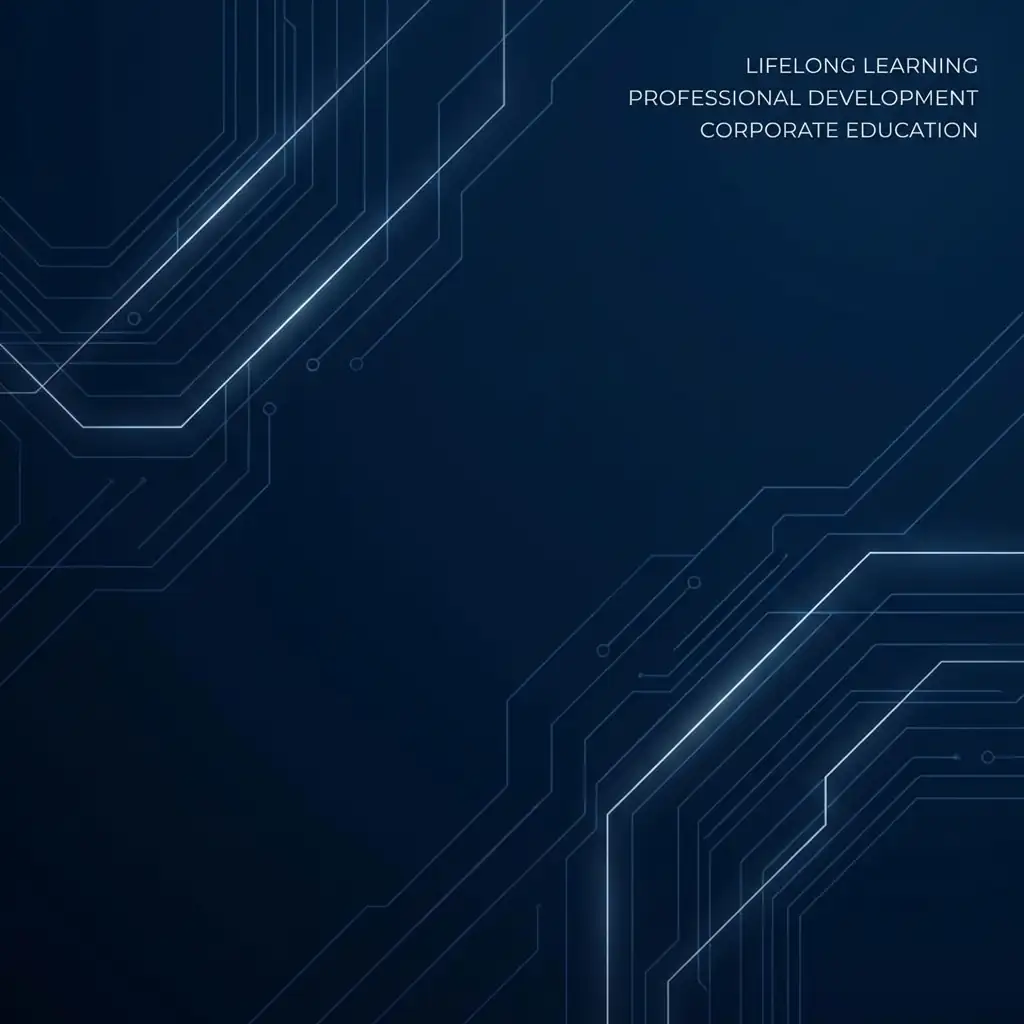
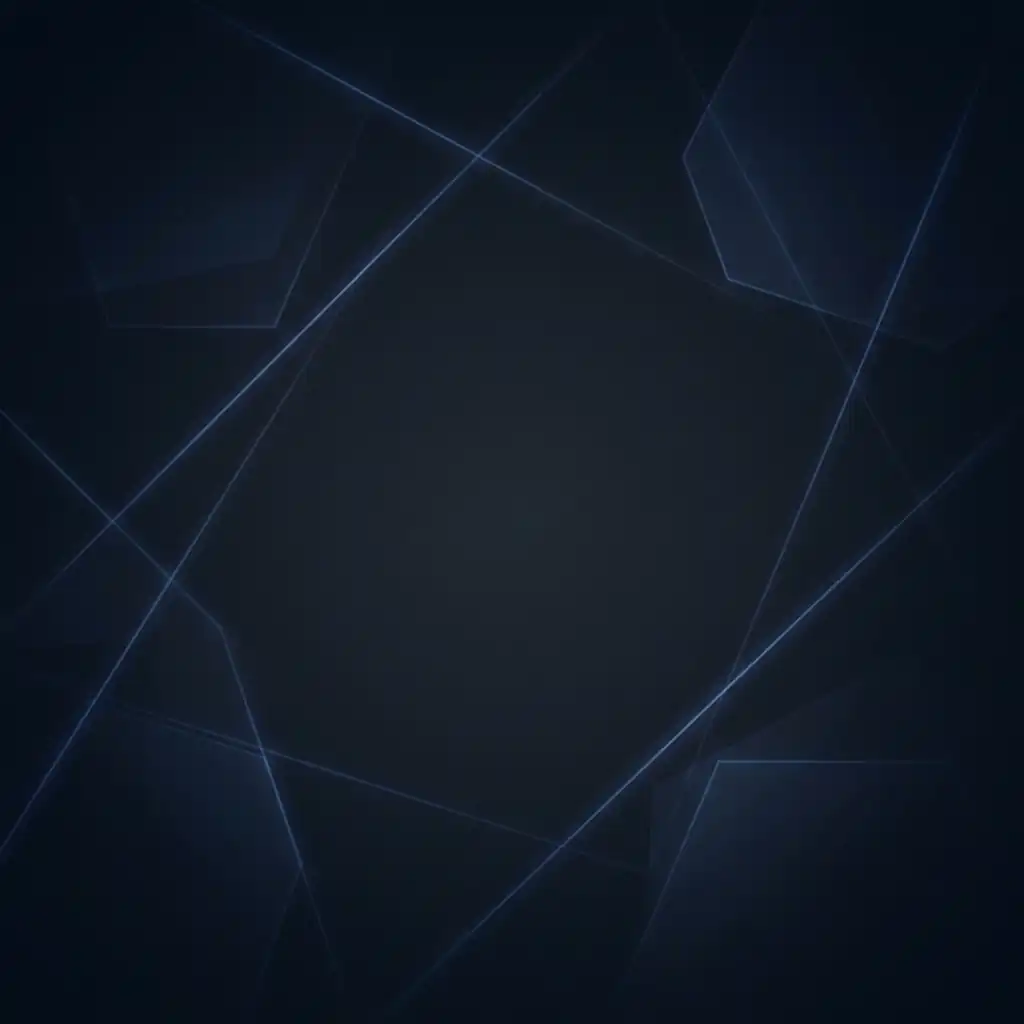
Slow animation to 300s and replace background with darker 7KB minimal version

diff --git a/index.html b/index.html
@@ -39,7 +39,7 @@
     <div class="fixed inset-0 z-0 pointer-events-none">
         <img src="assets/images/background.webp" alt="Global Consultancy Background"
             class="w-full h-full object-cover opacity-100">
-        <div class="absolute inset-0 bg-brand-dark/30 mix-blend-multiply"></div>
+        <div class="absolute inset-0 bg-brand-dark/50 mix-blend-multiply"></div>
     </div>
 
     <!-- Sticky Navigation -->

diff --git a/assets/css/styles.css b/assets/css/styles.css
@@ -109,7 +109,7 @@ a:focus-visible {
     display: flex;
     width: max-content;
     height: 100%;
-    animation: scroll-left 200s linear infinite;
+    animation: scroll-left 300s linear infinite;
     animation-play-state: paused;
 }
 

diff --git a/convert_bg_darker.py b/convert_bg_darker.py
@@ -1,0 +1,28 @@
+from PIL import Image
+import os
+
+source = r"c:\Users\user\.gemini\antigravity\scratch\edu\assets\images\background_darker_source.png"
+target = r"c:\Users\user\.gemini\antigravity\scratch\edu\assets\images\background.webp"
+
+print(f"Converting {source} to {target}...")
+
+try:
+    with Image.open(source) as img:
+        # Resize to 1280 max width (User requested "even smaller" and "instant load")
+        # 1280px is sufficient for a dark, abstract background
+        max_dimension = 1280
+        width, height = img.size
+        
+        if width > max_dimension:
+            new_height = int(height * (max_dimension / width))
+            img = img.resize((max_dimension, new_height), Image.Resampling.LANCZOS)
+            print(f"Resized to {max_dimension}x{new_height}")
+            
+        # Quality 50 - aggressive compression for minimal file size
+        img.save(target, 'WebP', quality=50, method=6)
+        
+    size_kb = os.path.getsize(target) / 1024
+    print(f"✅ Success! New background size: {size_kb:.1f} KB")
+
+except Exception as e:
+    print(f"❌ Error: {e}")
